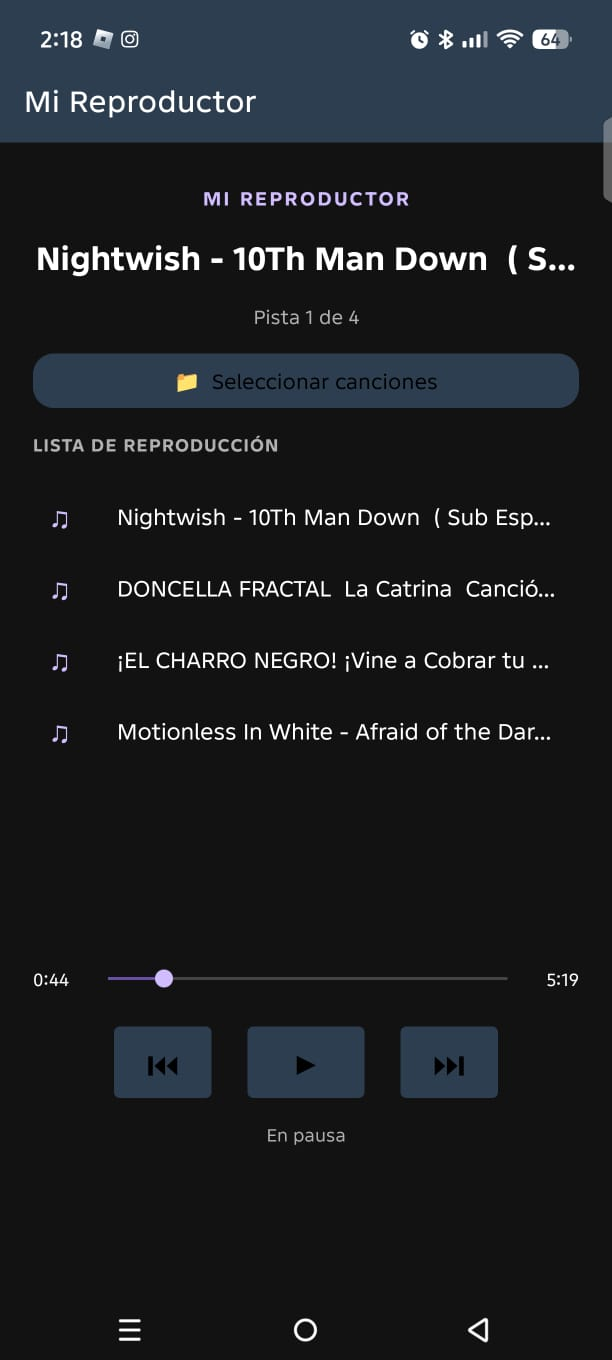
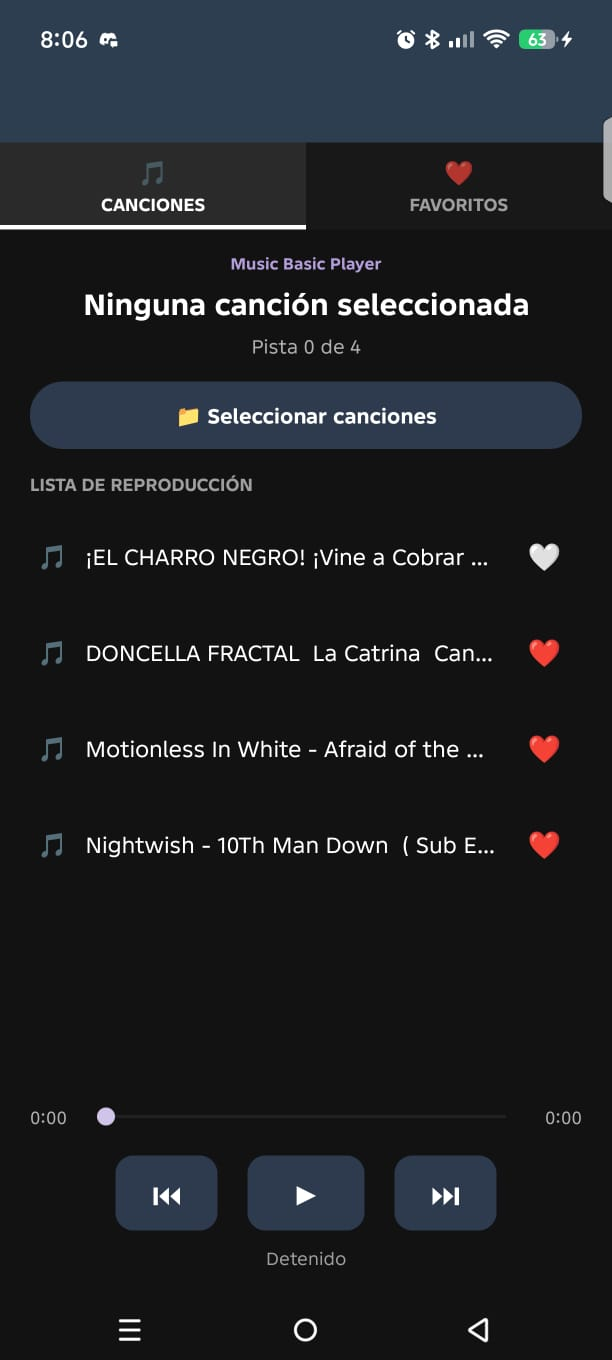
Actualización
Se agrego más contenido a la página.

diff --git a/remote.html b/remote.html
@@ -1,0 +1,221 @@
+<!DOCTYPE html>
+<html lang="es">
+<head>
+    <meta charset="UTF-8">
+    <meta name="viewport" content="width=device-width, initial-scale=1.0">
+    <title>WinstXD320 - Remote Support</title>
+    <link rel="stylesheet" href="estilos.css">
+    <style>
+        /* --- Contenido Detalle de Software --- */
+        main {
+            padding: 40px 6%;
+            max-width: 1200px;
+            margin: 0 auto;
+        }
+
+        .product-container {
+            display: flex;
+            justify-content: space-between;
+            align-items: flex-start;
+            gap: 40px;
+            flex-wrap: wrap;
+            background: #fff;
+            border: 1px solid #ddd;
+            border-radius: 12px;
+            padding: 30px;
+            box-shadow: 0 4px 12px rgba(0,0,0,0.08);
+            margin-bottom: 50px;
+        }
+
+        .product-image-box {
+            flex: 1;
+            min-width: 300px;
+            max-width: 450px;
+        }
+
+        .product-image-box img {
+            width: 100%;
+            height: auto;
+            border-radius: 8px;
+            border: 1px solid #ccc;
+            box-shadow: 0 4px 8px rgba(0,0,0,0.1);
+            object-fit: cover;
+        }
+
+        .product-details {
+            flex: 1.5;
+            min-width: 300px;
+            text-align: left;
+        }
+
+        .product-title-row {
+            display: flex;
+            align-items: center;
+            gap: 12px;
+            margin-bottom: 5px;
+        }
+
+        .product-title-row img {
+            width: 42px;
+            height: 42px;
+            object-fit: contain;
+        }
+
+        .product-details h1 {
+            color: #8e44ad;
+            font-size: 30px;
+            margin: 0;
+        }
+
+        .product-version {
+            color: #0084ff;
+            font-weight: bold;
+            font-size: 15px;
+            margin-bottom: 20px;
+        }
+
+        .product-description {
+            color: #555;
+            font-size: 15px;
+            line-height: 1.6;
+            margin-bottom: 25px;
+        }
+
+        .product-meta {
+            margin-bottom: 25px;
+            font-size: 16px;
+            color: #333;
+        }
+
+        .product-meta span {
+            font-weight: bold;
+            color: #2980b9;
+        }
+
+        .btn-download-app {
+            display: inline-block;
+            background-color: #0084ff;
+            color: white;
+            font-size: 18px;
+            font-weight: bold;
+            padding: 14px 35px;
+            border-radius: 6px;
+            box-shadow: 0 4px 8px rgba(0, 132, 255, 0.3);
+            transition: background 0.3s, transform 0.2s;
+        }
+
+        .btn-download-app:hover {
+            background-color: #006dd9;
+            transform: translateY(-2px);
+        }
+
+        /* --- Sección de Galería de Capturas --- */
+        .gallery-section h3 {
+            color: #8e44ad;
+            font-size: 24px;
+            margin-bottom: 20px;
+            border-bottom: 2px solid #eee;
+            padding-bottom: 10px;
+        }
+
+        .gallery-grid {
+            display: flex;
+            justify-content: space-between;
+            gap: 20px;
+            flex-wrap: wrap;
+        }
+
+        .gallery-card {
+            flex: 1;
+            min-width: 250px;
+            max-width: 360px;
+            background: #fff;
+            border: 1px solid #ddd;
+            border-radius: 8px;
+            overflow: hidden;
+            box-shadow: 0 2px 6px rgba(0,0,0,0.06);
+            transition: transform 0.2s;
+        }
+
+        .gallery-card:hover {
+            transform: translateY(-4px);
+        }
+
+        .gallery-card img {
+            width: 100%;
+            height: 180px;
+            object-fit: cover;
+            display: block;
+            border-bottom: 1px solid #eee;
+        }
+
+        .gallery-card p {
+            text-align: center;
+            font-size: 14px;
+            color: #666;
+            padding: 10px;
+            margin: 0;
+            font-weight: bold;
+        }
+
+        /* --- Botón Flotante --- */
+        .chat-widget {
+            position: fixed; bottom: 20px; right: 20px; background-color: #9b59b6; color: white;
+            padding: 15px 20px; border-radius: 8px; box-shadow: 0 4px 8px rgba(0,0,0,0.2);
+            cursor: pointer; font-weight: bold; display: flex; align-items: center; gap: 10px;
+        }
+    </style>
+</head>
+<body>
+
+    <!-- Aquí se cargan automáticamente el header y el nav -->
+    <div id="header-placeholder"></div>
+
+    <!-- Contenido Detalle de Remote Support -->
+    <main>
+        <div class="product-container">
+            <!-- Imagen Principal -->
+            <div class="product-image-box">
+                <img src="imagenes/remote 1.png" alt="Remote Support">
+            </div>
+
+            <!-- Detalles y Descripción -->
+            <div class="product-details">
+                <div class="product-title-row">
+                    <img src="imagenes/rm icono.png" alt="Icono Remote Support">
+                    <h1>Remote Support</h1>
+                </div>
+                <div class="product-version">Versión 1.0 • Instalador Ejecutable (.exe)</div>
+                
+                <div class="product-description">
+                    Herramienta de asistencia remota instantánea y multimonitor diseñada para brindar soporte técnico de forma rápida, segura y eficiente. Permite conectarse a otro equipo ingresando su dirección ID única, con detección automática de múltiples pantallas y opción de control compartido de mouse y teclado previa autorización del usuario remoto.
+                </div>
+
+                <div class="product-meta">
+                    <div>Peso: <span>53.3 MB</span></div>
+                    <div>Formato: <span>Aplicación de Escritorio (.exe)</span></div>
+                </div>
+
+                <a href="https://github.com/winstxd320/Remote-Support/releases/download/RemoteSupport/Instalar.Remote.Support.exe" target="_blank" rel="noopener noreferrer" class="btn-download-app">Descargar .EXE</a>
+            </div>
+        </div>
+
+        <!-- Galería de Capturas -->
+        <div class="gallery-section">
+            <h3>Capturas de la Aplicación</h3>
+            <div class="gallery-grid">
+                <div class="gallery-card">
+                    <img src="imagenes/remote 1.png" alt="Panel Principal de Conexión">
+                    <p>Panel Principal y Conexión por ID</p>
+                </div>
+                <div class="gallery-card">
+                    <img src="imagenes/remote 2.png" alt="Créditos e Información">
+                    <p>Información y Detección Multimonitor</p>
+                </div>
+            </div>
+        </div>
+    </main>
+
+    <script src="layout.js"></script>
+</body>
+</html>

diff --git a/moviles.html b/moviles.html
@@ -3,7 +3,7 @@
 <head>
     <meta charset="UTF-8">
     <meta name="viewport" content="width=device-width, initial-scale=1.0">
-    <title>Ericksystem - Aplicaciones Móviles</title>
+    <title>WinstXD320 - Aplicaciones Móviles</title>
     <link rel="stylesheet" href="estilos.css">
     <style>
         /* --- Contenido Móviles --- */
@@ -53,14 +53,21 @@
             margin-bottom: 20px;
         }
 
-        .badge-coming {
+        .btn-download-apk {
             display: inline-block;
-            background-color: #e67e22;
+            background-color: #0084ff;
             color: white;
-            padding: 10px 20px;
-            border-radius: 5px;
+            font-size: 16px;
             font-weight: bold;
-            font-size: 15px;
+            padding: 12px 30px;
+            border-radius: 6px;
+            box-shadow: 0 4px 8px rgba(0, 132, 255, 0.3);
+            transition: background 0.3s, transform 0.2s;
+        }
+
+        .btn-download-apk:hover {
+            background-color: #006dd9;
+            transform: translateY(-2px);
         }
 
         /* --- Botón Flotante --- */
@@ -82,10 +89,10 @@
 
         <div class="mobile-container">
             <div class="mobile-card">
-                <img src="imagenes/reproductor.jpeg" alt="Mi Reproductor de Música">
-                <h3>Mi Reproductor</h3>
-                <p>Reproductor de música personalizado desarrollado en C# con .NET para Android. Organiza y reproduce tus pistas favoritas de forma fluida.</p>
-                <div class="badge-coming">🎵 Muy pronto para descargar</div>
+                <img src="imagenes/reproductor.jpeg" alt="Music Player Basic">
+                <h3>Music Player Basic</h3>
+                <p>Reproductor básico de música que te permite cargar música de tu carpeta, añadir a favoritos las músicas que tienes en tu carpeta y reproducirlas por aparte.</p>
+                <a href="https://github.com/winstxd320/Music-Player-Basic/releases/download/Reproductor1/Music.Player.Basic.apk" target="_blank" rel="noopener noreferrer" class="btn-download-apk">Descargar .APK</a>
             </div>
         </div>
     </main>

diff --git a/index.html b/index.html
@@ -33,7 +33,7 @@
                     <img src="https://images.unsplash.com/photo-1551288049-bebda4e38f71?q=80&w=400&auto=format&fit=crop" alt="Software Desktop">
                 </a>
                 <h3>Software Desktop</h3>
-                <p>Descubre potentes herramientas para potenciar tu negocio y optimizar tus tareas diarias.</p>
+                <p>Aplicaciones y herramientas de entretenimiento que te ayudaran como usuario. </p>
             </div>
             
             <div class="service-card">
@@ -42,7 +42,7 @@
                 </a>
                 
                 <h3>Software Android</h3>
-                <p>Sumérgete en el mundo de las aplicaciones móviles y lleva tu empresa a donde estén tus clientes.</p>
+                <p>Aplicaciones de celulares que aun en desarrollo, qué más adelante te ayudaran y te entretendran.</p>
             </div>
         </div>
     </main>

diff --git a/desktop.html b/desktop.html
@@ -64,9 +64,18 @@
                     <a href="tr.html" class="btn-descargar">Descargar / Ver más</a>
                 </div>
             </div>
+
+            <!-- TARJETA 3 -->
+            <div class="software-card">
+                <img src="imagenes/rm icono.png" alt="Remote Support" style="object-fit: contain; padding: 20px; box-sizing: border-box;">
+                <div class="software-info">
+                    <h3>Remote Support</h3>
+                    <p>Asistencia remota instantánea y multimonitor. Conéctate de forma rápida y segura a otros equipos mediante ID para brindar soporte técnico en tiempo real.</p>
+                    <a href="remote.html" class="btn-descargar">Descargar / Ver más</a>
+                </div>
+            </div>
         </div>
     </main>
-    <
 
     <script src="layout.js"></script>
 </body>
